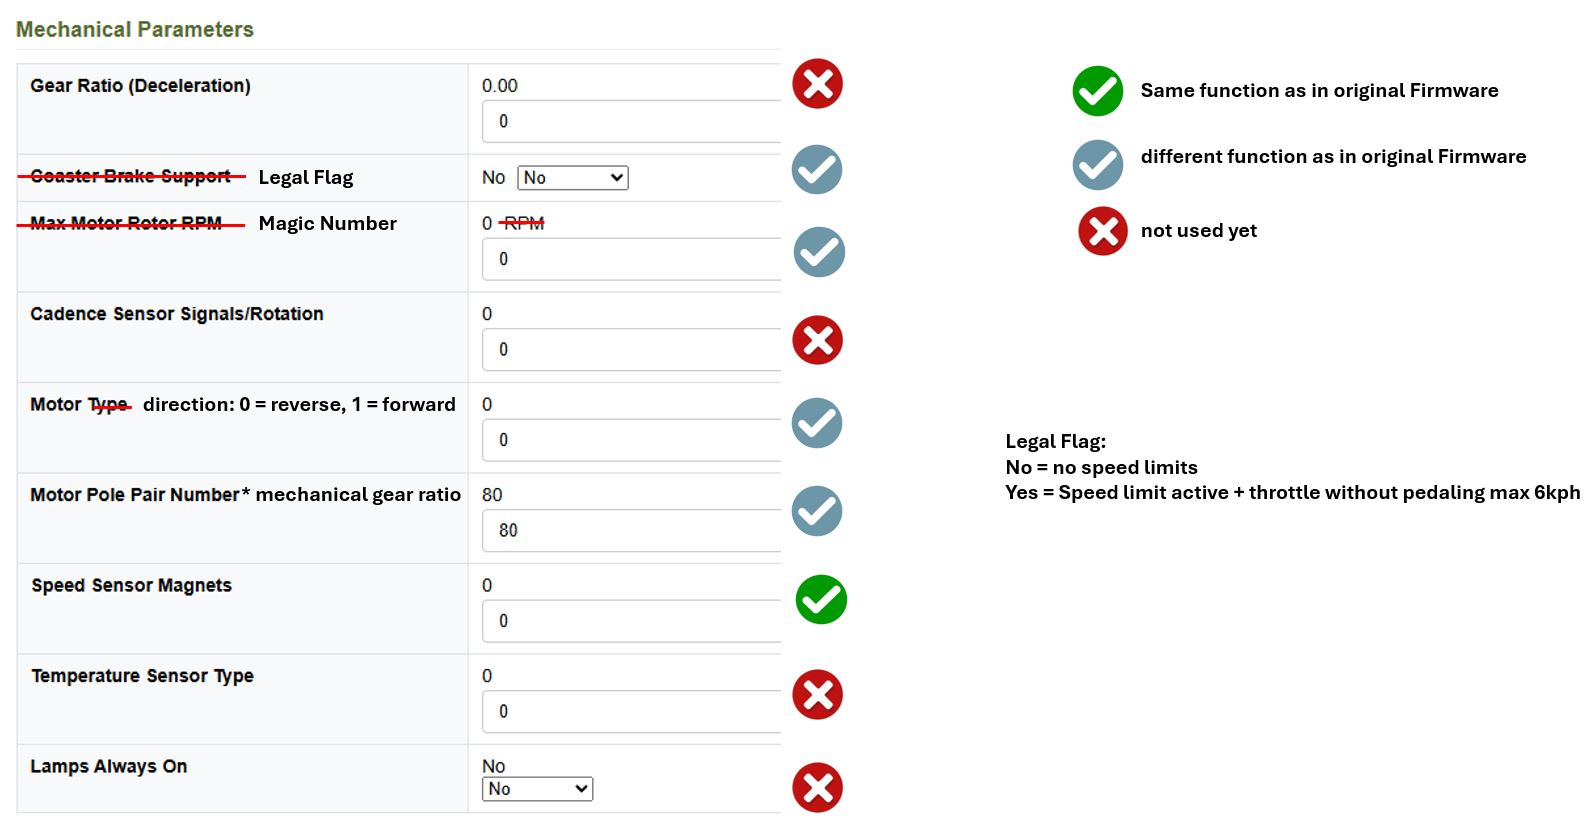
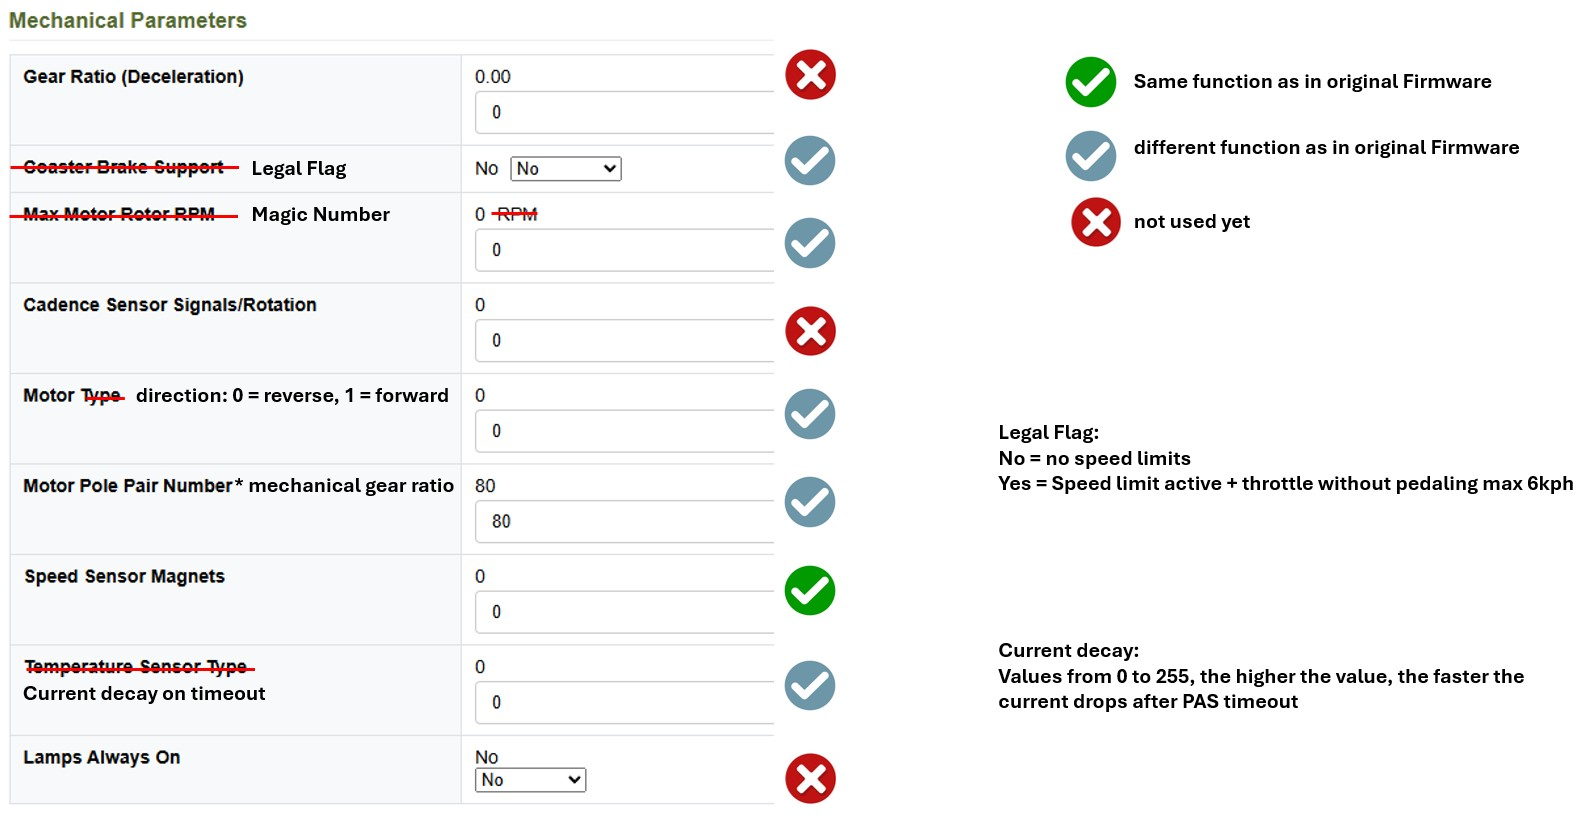
fix decrementing values in Canable Tool

diff --git a/src/parser.c b/src/parser.c
@@ -64,7 +64,7 @@ void parse_MOparams(MotorParams_t* MP){
 	Para1[2] = MP->max_voltage;
 	Para1[3] = (MP->voltage_min*CAL_BAT_V)&0xFF;
 	Para1[4] = ((MP->voltage_min*CAL_BAT_V)>>8)&0xFF;
-	Para1[9]= MP->phase_current_max*CAL_I/1000;
+	Para1[9]= (MP->phase_current_max*CAL_I/1000)+1;
 	Para1[12]= MP->Cadence_exponent;
 	Para1[14]= MP->legalflag;
 	if (MP->reverse==-1)Para1[18]=0;
@@ -74,8 +74,8 @@ void parse_MOparams(MotorParams_t* MP){
 	Para1[21]= MP->decay_base;
 	Para1[24]= (MP->MagicNumber)&0xFF;
 	Para1[25]= ((MP->MagicNumber)>>8)&0xFF;
-	Para1[34]= (MP->throttle_offset*33)>>12; //map 3.3V to 12 bit ADC resolution
-	Para1[35]= (MP->throttle_max*33)>>12; //map 3.3V to 12 bit ADC resolution
+	Para1[34]= ((MP->throttle_offset*33)>>12)+1; //map 3.3V to 12 bit ADC resolution
+	Para1[35]= ((MP->throttle_max*33)>>12)+1; //map 3.3V to 12 bit ADC resolution
 	Para1[37]= MP->Override_Duration/40;// used for override duration
 	Para1[38]= MP->PAS_timeout*10/4000; //in Zehntelsekunden, use field Current Loading Time (Ramp Up)
 	Para1[39]= 11250/MP->ramp_end; //use field Current Shedding Time (Ramp Down), calculate threshold cadence from timer tics

diff --git a/inc/config.h b/inc/config.h
@@ -25,7 +25,7 @@
 #define CAL_BAT_I_OFFSET 1360
 #define CAL_V 15LL<<8
 #define CAL_I 70 //Zurückgerechnet aus Batteriestrom = Tastverhältnis * Motorstrom
-#define BOOTLOADER 0
+#define BOOTLOADER 38
 // BionX IGH3
 //#define INDUCTANCE 12LL
 //#define RESISTANCE 220LL
